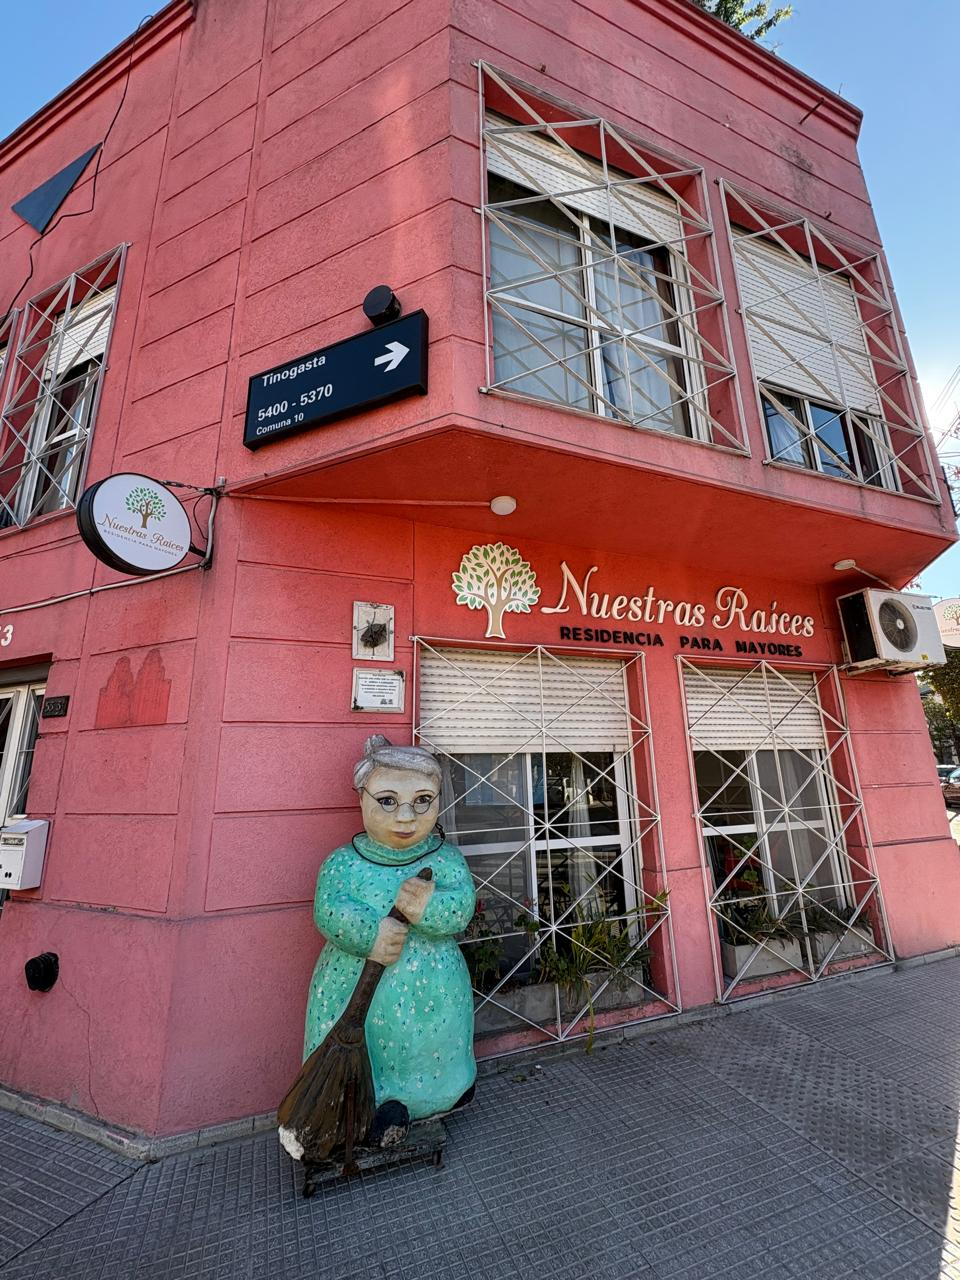
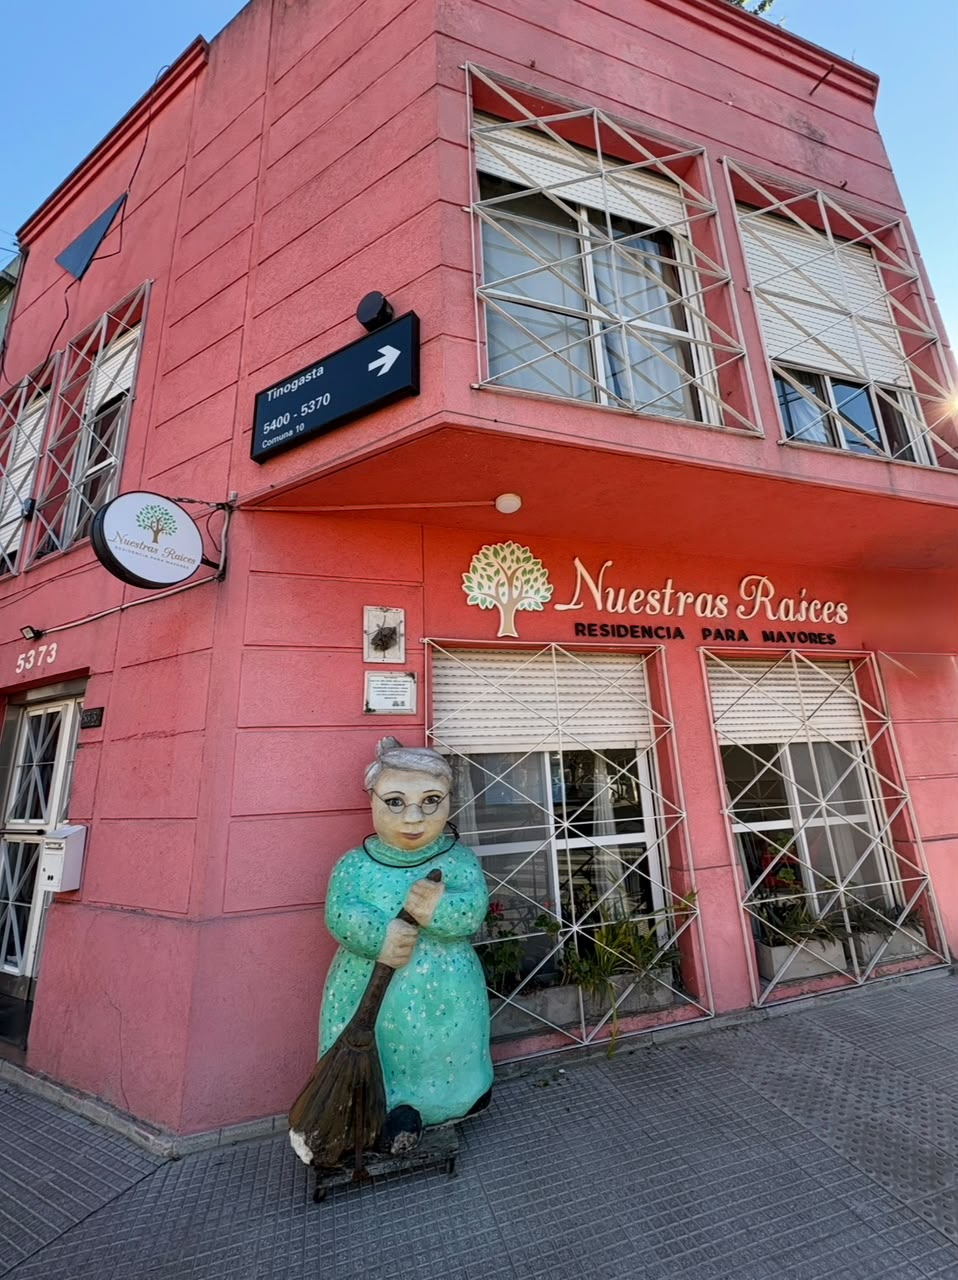
actualizo fotos y textos

diff --git a/src/components/About.jsx b/src/components/About.jsx
@@ -26,36 +26,14 @@ export default function About() {
             </h2>
             <div className="mt-8">
               <p className="text-lg text-brown-light mb-6">
-                En <strong className="text-brown-dark">Nuestras Raíces</strong> brindamos un espacio seguro, cálido y confortable <strong>desde el 25 de marzo de 1998 </strong>donde cada residente recibe una atención personalizada. Trabajamos para que cada día esté acompañado de bienestar, respeto y calidad humana.
+                En <strong className="text-brown-dark">Nuestras Raíces</strong> brindamos un espacio seguro, cálido y confortable <strong>desde el 25 de marzo de 1998 </strong>donde cada residente recibe una atención personalizada. Trabajamos para que cada día esté acompañado de bienestar, respeto y calidez humana.
               </p>
               <p className="text-lg text-brown-light mb-6">
-                Más que una residencia, somos un lugar donde las personas encuentran contención, compañía y un ambiente familiar. Nos enorgullece contar con la <strong className="text-brown-dark">presencia constante y diaria de los dueños</strong>, generando tranquilidad y acompañamiento permanente para cada familia.
+                Más que una residencia, somos un lugar donde los abuelos encuentran contención, compañía y un ambiente familiar, contando con la  <strong className="text-brown-dark">presencia constante y diaria de los dueños</strong>, generando tranquilidad y acompañamiento permanente para cada familia.
               </p>
               <blockquote className="border-l-4 border-gold pl-5 italic text-lg text-green-dark my-8">
                 "Nuestra misión es brindar un cuidado integral basado en el respeto, la empatía y la dignidad de cada persona mayor."
               </blockquote>
-
-              <div className="flex flex-wrap gap-8 mt-10">
-                {[
-                  { countTo: 24, suffix: "/7", label: "Cuidado Médico" },
-                  { countTo: 8, suffix: "+", label: "Talleres Activos" },
-                  { value: "Familia", label: "Presencia de dueños" },
-                ].map((stat) => (
-                  <div key={stat.label} className="flex flex-col">
-                    <span className="font-heading text-3xl font-bold text-gold-dark flex items-center">
-                      {stat.countTo ? (
-                        <>
-                          <CountUp from={0} to={stat.countTo} duration={1.5} />
-                          {stat.suffix}
-                        </>
-                      ) : (
-                        stat.value
-                      )}
-                    </span>
-                    <span className="text-sm text-brown-light font-medium">{stat.label}</span>
-                  </div>
-                ))}
-              </div>
             </div>
           </div>
         </div>

diff --git a/src/data/siteData.js b/src/data/siteData.js
@@ -24,7 +24,7 @@ export const reviews = [
     text: "¡Excelente atención, hermoso lugar! Un placer haber llevado a mi abuela ahí. Gracias por todo el cariño que le dieron.",
   },
   {
-    name: "Valeriadeportjuego",
+    name: "Valeria",
     relation: "Familiar de Residente",
     stars: 5,
     text: "¡Excelente atención! Estamos muy conformes con la estadía de mi mamá con Alzheimer.",
@@ -34,17 +34,15 @@ export const reviews = [
 export const galleryItems = [
   { src: "/Fotos/Exterior.jpeg", title: "Fachada Principal", category: "exterior", desc: "Nuestra entrada principal sobre Tinogasta" },
   { src: "/Fotos/CartelExterior.jpeg", title: "Cartel Principal", category: "exterior", desc: "Bienvenidos a Residencial Nuestras Raíces" },
-  { src: "/Fotos/CartelesPatio.jpeg", title: "Cartelera de Patio", category: "exterior", desc: "Detalles que decoran nuestro espacio exterior" },
-  { src: "/Fotos/Patio1.jpeg", title: "Patio Parquizado", category: "patio", desc: "Espacio verde con solárium para las tardes cálidas" },
-  { src: "/Fotos/Patio2.jpeg", title: "Sector de Descanso", category: "patio", desc: "Mesas exteriores para visitas y esparcimiento" },
-  { src: "/Fotos/Patio3.jpeg", title: "Jardín de Encuentros", category: "patio", desc: "Naturaleza y flores cuidadas por nuestros abuelos" },
-  { src: "/Fotos/Patio4.jpeg", title: "Galería Exterior", category: "patio", desc: "Sector de sombra confortable al aire libre" },
-  { src: "/Fotos/Habitacion1.jpeg", title: "Habitación Luminosa", category: "habitaciones", desc: "Espacios amplios y adaptados para mayor confort" },
-  { src: "/Fotos/Habitacion2.jpeg", title: "Dormitorio Compartido", category: "habitaciones", desc: "Equipamiento con ventilación natural" },
-  { src: "/Fotos/Habitacion3.jpeg", title: "Dormitorio de Descanso", category: "habitaciones", desc: "Luz de tarde y mobiliario adaptado para asistencia" },
+  { src: "/Fotos/CartelesPatio.jpeg", title: "Mensajes de Buena Onda", category: "exterior", desc: "Detalles que decoran nuestro espacio exterior" },
+  { src: "/Fotos/Patio1.jpeg", title: "Patio Verde", category: "patio", desc: "Sector de encuentros" },
+  { src: "/Fotos/Patio3.jpeg", title: "Sector de Relax", category: "patio", desc: "Lugar de encuentros" },
+  { src: "/Fotos/terraza.jpeg", title: "Espacio Exterior Terraza", category: "patio", desc: "Sector de sol confortable al aire libre" },
+  { src: "/Fotos/Habitacion1.jpeg", title: "Habitación Compartida", category: "habitaciones", desc: "Espacios amplios y adaptados para mayor confort" },
+  { src: "/Fotos/Habitacion2.jpeg", title: "Habitación Luminosa", category: "habitaciones", desc: "Confortable" },
   { src: "/Fotos/Pasillo1.jpeg", title: "Pasillo de Distribución", category: "habitaciones", desc: "Barandas de apoyo continuas y excelente iluminación" },
-  { src: "/Fotos/Baños1.jpeg", title: "Baño Adaptado Principal", category: "habitaciones", desc: "Piso antideslizante y barrales de seguridad" },
   { src: "/Fotos/Baños2.jpeg", title: "Baño Asistido", category: "habitaciones", desc: "Ducha a ras de suelo y equipamiento completo" },
+  { src: "/salaDeEstar.jpeg", title: "Sala de Estar", category: "habitaciones", desc: "Cómoda y Luminosa" },
   { src: "/Fotos/Actividades1.jpeg", title: "Festejos Patrios", category: "actividades", desc: "Decoramos y festejamos juntos las fechas patrias" },
   { src: "/Fotos/Actividades2.jpeg", title: "Taller de Arte", category: "actividades", desc: "Desarrollando la creatividad en el taller de arte" },
   { src: "/Fotos/Actividades3.jpeg", title: "Taller de Arte", category: "actividades", desc: "Expresión artística y manualidades" },
@@ -59,8 +57,7 @@ export const galleryItems = [
   { src: "/estimulacionYMente5.jpeg", title: "Taller de Estimulación Cognitiva", category: "actividades", desc: "Juegos grupales y ejercicios de memoria" },
   { src: "/nocheDeMusica.mp4", type: "video", title: "Música en Vivo", category: "actividades", desc: "Nos juntamos a cantar y a disfrutar un lindo momento" },
   { src: "/deporte.mp4", type: "video", title: "Deporte para el movimiento del cuerpo", category: "actividades", desc: "Actividad física para mantenernos ágiles y saludables" },
-  { src: "/juegoConPelotas2.mp4", type: "video", title: "Juegos con Pelotas", category: "actividades", desc: "Juegos grupales para mantenernos ágiles y saludables" },
-  { src: "/juegoConPelotas.mp4", type: "video", title: "Juegos con Pelotas", category: "actividades", desc: "Juegos grupales para mantenernos ágiles y saludables" },
+  { src: "/juegosConElementos.mp4", type: "video", title: "Juegos con Elementos", category: "actividades", desc: "Juegos grupales para mantenernos ágiles y saludables" },
   { src: "/musicoTerapia.mp4", type: "video", title: "Músicoterapia", category: "actividades", desc: "Actividades con Música" },
 ];
 
@@ -74,7 +71,7 @@ export const categoryNames = {
 export const faqs = [
   {
     q: "¿Cuáles son los horarios de visita?",
-    a: "Las familias pueden visitarnos todos los días de 10:00 a 19:00 hs. Fomentamos la cercanía de los familiares ya que es un pilar fundamental en el bienestar de los abuelos.",
+    a: "En nuestra residencia es totalmente libre el horario de visitas. Fomentamos la cercanía de los familiares ya que es un pilar fundamental en el bienestar de los abuelos.",
   },
   {
     q: "¿Qué grados de asistencia reciben?",

diff --git a/src/components/Header.jsx b/src/components/Header.jsx
@@ -36,17 +36,17 @@ export default function Header() {
   return (
     <header
       className={`fixed top-0 left-0 w-full z-50 transition-all duration-300 border-b border-gold/20 ${scrolled
-          ? "h-[90px] bg-cream/95 shadow-md"
-          : "h-[110px] bg-cream/85 backdrop-blur-lg"
+        ? "h-[90px] bg-cream/95 shadow-md"
+        : "h-[110px] bg-cream/85 backdrop-blur-lg"
         }`}
     >
       <div className="max-w-[1200px] mx-auto px-6 flex items-center justify-between h-full">
         {/* Logo */}
         <a href="#inicio" className="flex items-center gap-3" aria-label="Volver al inicio">
           <img
-            src="/logo.png?v=2"
+            src="/logoCircular.png"
             alt="Logotipo Nuestras Raíces"
-            className={`transition-all duration-300 rounded-md mix-blend-multiply ${scrolled ? "h-[70px]" : "h-[90px]"}`}
+            className={`transition-all duration-300 rounded-full border-2 border-green-dark bg-white shadow-sm object-contain ${scrolled ? "h-[80px] w-[80px]" : "h-[100px] w-[100px]"}`}
           />
         </a>
 
@@ -58,8 +58,8 @@ export default function Header() {
                 <a
                   href={link.href}
                   className={`relative py-2 font-medium text-[0.95rem] transition-colors duration-150 after:content-[''] after:absolute after:bottom-0 after:left-0 after:h-0.5 after:bg-gold after:transition-all after:duration-300 hover:text-green-primary hover:after:w-full ${activeSection === link.href
-                      ? "text-green-primary font-semibold after:w-full"
-                      : "text-brown-dark after:w-0"
+                    ? "text-green-primary font-semibold after:w-full"
+                    : "text-brown-dark after:w-0"
                     }`}
                 >
                   {link.label}

diff --git a/src/components/Reviews.jsx b/src/components/Reviews.jsx
@@ -28,7 +28,7 @@ export default function Reviews() {
   useEffect(() => {
     const interval = setInterval(() => {
       setCurrent((prev) => (prev + 1) % reviews.length);
-    }, 6000);
+    }, 20000);
     return () => clearInterval(interval);
   }, [reviews.length]);
 
@@ -45,7 +45,7 @@ export default function Reviews() {
             Opiniones de nuestra Residencia
           </h2>
           <p className="text-lg text-brown-light max-w-[600px] mx-auto mt-6">
-            La mayor recompensa a nuestro trabajo es la tranquilidad de quienes nos confían el cuidado de sus seres queridos.
+            La mayor recompensa a nuestro trabajo es la tranquilidad de quienes nos confían el cuidado de sus más seres queridos.
           </p>
         </div>
 
@@ -69,7 +69,7 @@ export default function Reviews() {
 
           {/* Slides */}
           <div
-            className="flex transition-transform duration-500 ease-in-out"
+            className="flex transition-transform duration-1500 ease-in-out"
             style={{ transform: `translateX(-${current * 100}%)` }}
           >
             {reviews.map((review, i) => (

diff --git a/src/components/Activities.jsx b/src/components/Activities.jsx
@@ -15,7 +15,7 @@ const tabs = [
     label: "Cuerpo & Movimiento",
     title: "Yoga y Gimnasia Adaptada",
     desc: "El movimiento es salud. Llevamos a cabo clases de kinesiología grupal y gimnasia suave adaptadas a las posibilidades físicas de cada persona, enfocándonos en postura, flexibilidad, equilibrio y fuerza.",
-    items: ["Yoga Adaptado", "Gimnasia Grupal", "Ejercicios de Equilibrio", "Caminatas guiadas en el Patio"],
+    items: ["Yoga de acuerdo a las posibilidades", "Gimnasia Grupal", "Ejercicios de Equilibrio", "Caminatas guiadas"],
     img: "/Fotos/Actividades3.jpeg",
     imgAlt: "Clase de yoga y estiramiento grupal",
   },
@@ -24,7 +24,7 @@ const tabs = [
     label: "Arte & Música",
     title: "Expresión Artística, Musicoterapia y Tango",
     desc: "El arte y la música tocan el alma y activan recuerdos profundos. Ofrecemos talleres de plástica y pintura, sesiones de musicoterapia y clases de tango adaptadas.",
-    items: ["Taller de Arte (Pintura y Dibujo)", "Musicoterapia", "Taller de Tango", "Talleres Musicales e Instrumentos"],
+    items: ["Taller de Arte (Pintura y Dibujo)", "Musicoterapia", "Taller de Tango y Folklore", "Talleres Musicales con Instrumentos"],
     img: "/Fotos/Actividades6.jpeg",
     imgAlt: "Sesión de tango y musicoterapia",
   },

diff --git a/src/components/Services.jsx b/src/components/Services.jsx
@@ -13,7 +13,7 @@ const services = [
         <path d="M22 12h-4l-3 9L9 3l-3 9H2" />
       </svg>
     ),
-    features: ["Enfermería profesional 24/7", "Médico Clínico Presencial", "Suministro de Medicación"],
+    features: ["Atención Cínica Semanal", "Control Cardiológico Semestral", "Suministro de Medicación"],
   },
   {
     title: "Un verdadero hogar",
@@ -23,7 +23,7 @@ const services = [
         <path d="M2 4v16" /><path d="M2 8h18a2 2 0 0 1 2 2v10" /><path d="M2 17h20" /><path d="M6 8v9" />
       </svg>
     ),
-    features: ["Estadía Permanente", "Habitaciones Compartidas", "Comida casera"],
+    features: ["Un Verdadero Hogar", "Habitaciones Compartidas", "Ascensor en todos los pisos", "Espacios al aire libre en patio y terraza"],
   },
   {
     title: "Atención Personalizada",

diff --git a/src/components/Footer.jsx b/src/components/Footer.jsx
@@ -25,7 +25,7 @@ export default function Footer() {
               </div>
             </div>
             <p className="text-white/70 text-[0.95rem] max-w-[320px] mt-4">
-              Un ambiente familiar y seguro concebido con amor y operado con la mayor seriedad médica para el bienestar de los adultos mayores.
+              Un ambiente familiar y seguro creado con amor y operado con la mayor seriedad médica para el bienestar de los adultos mayores.
             </p>
           </div>
 

diff --git a/src/components/Hero.jsx b/src/components/Hero.jsx
@@ -50,7 +50,7 @@ export default function Hero() {
           </div>
 
           <div className="hidden lg:grid grid-cols-1 sm:grid-cols-2 gap-5 border-t border-brown-light/15 pt-8">
-            {["Asistencia Medica 24/7", "Médico Presencial", "Suministro Controlado", "Gran Variedad de Talleres"].map((feat) => (
+            {["Control Médico/Clínico", "Evaluación Cardiológica Periódica", "Calidez Humana", "Actividades Recreativas Grupales"].map((feat) => (
               <div key={feat} className="flex items-center gap-3">
                 <div className="flex items-center justify-center w-10 h-10 bg-white rounded-full shadow-sm text-gold border border-gold/20 font-bold text-sm shrink-0">
                   ✓